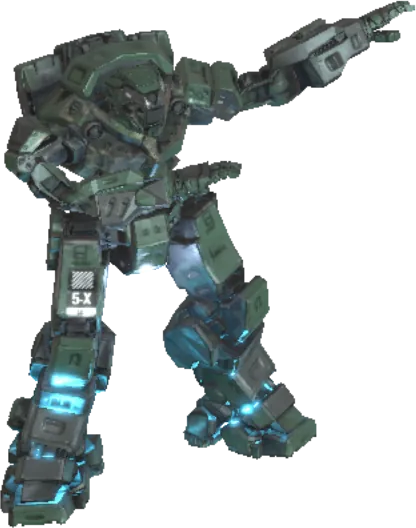
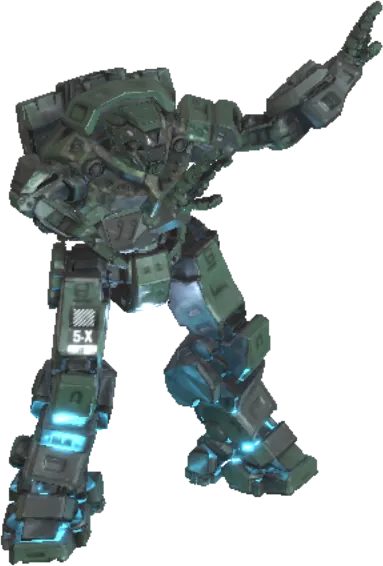
Presenting gesture: bent elbow and open, tipped-back palms
The previous fix still read as pointing: arm, forearm and fingers made
one straight line. The raised elbow now bends (forearm ~45 deg up and
out), both hands tip back into open palms, and the lower hand is held
out at chest height, matching the "here it is" reference. Stills are
re-rendered from the live scene.

diff --git a/src/styles/editorial-refinements.css b/src/styles/editorial-refinements.css
@@ -206,16 +206,16 @@ body.overflow-x-hidden { overflow-x: clip; }
    the intro script in px, and scaled with viewport height like the 3D camera.
    Its feet anchor matches the 3D model's origin. Never mirrored: a flat
    image flipping sides reads as a card flip; only the live 3D guide turns. */
-.guide-poster { position: fixed; left: 0; top: 0; z-index: 5; height: 29.333vh; height: 29.333dvh;
+.guide-poster { position: fixed; left: 0; top: 0; z-index: 5; height: 31.444vh; height: 31.444dvh;
   translate: var(--guide-x, 34vw) var(--guide-y, 80vh); pointer-events: none;
   transition: opacity .6s ease; }
-.guide-poster img { display: block; width: auto; height: 100%; translate: -34.18% -84.28%;
+.guide-poster img { display: block; width: auto; height: 100%; translate: -37.65% -85.69%;
   animation: guide-hover 4.5s ease-in-out infinite; }
 .guide-poster.is-away, .guide-poster.is-live { opacity: 0; }
 .guide-poster.is-live img { animation-play-state: paused; }
 @keyframes guide-hover { 0%, 100% { transform: translateY(0); } 50% { transform: translateY(-1.2%); } }
 @media (max-width: 699px) {
-  .guide-poster { height: 15.225vh; height: 15.225dvh; translate: var(--guide-x, 22vw) var(--guide-y, 72vh); }
-  .guide-poster img { translate: -25.17% -63.18%; }
+  .guide-poster { height: 15.166vh; height: 15.166dvh; translate: var(--guide-x, 22vw) var(--guide-y, 72vh); }
+  .guide-poster img { translate: -25.17% -63.42%; }
 }
 @media (prefers-reduced-motion: reduce) { .guide-poster, .guide-poster img { animation: none; transition: opacity .3s ease; } }

diff --git a/src/components/presentation.js b/src/components/presentation.js
@@ -16,9 +16,11 @@ export const PRESENTATION_CHAINS = {
 // bone axes.
 export function presentationDirection(name, side) {
   const raised = side > 0 ? name.includes('_l_') : name.includes('_r_');
-  if (name.startsWith('arm_')) return raised ? [side * 0.88, 0.2, 0.3] : [side * 0.45, -0.72, 0.38];
-  if (name.startsWith('forearm_')) return raised ? [side * 0.82, 0.42, 0.25] : [side * 0.9, 0.12, 0.38];
-  return raised ? [side * 0.88, 0.3, 0.2] : [side * 0.9, 0.18, 0.25];
+  // Hands tip back from the forearm (open palm, "here it is"); a hand that
+  // continues the arm's line reads as pointing instead of presenting.
+  if (name.startsWith('arm_')) return raised ? [side * 0.8, 0.12, 0.4] : [side * 0.6, -0.68, 0.42];
+  if (name.startsWith('forearm_')) return raised ? [side * 0.62, 0.62, 0.35] : [side * 0.92, 0.22, 0.32];
+  return raised ? [side * 0.35, 0.85, 0.25] : [side * 0.78, 0.55, 0.2];
 }
 
 export function presentationNearDescription(guide, rectangles, width, height) {
